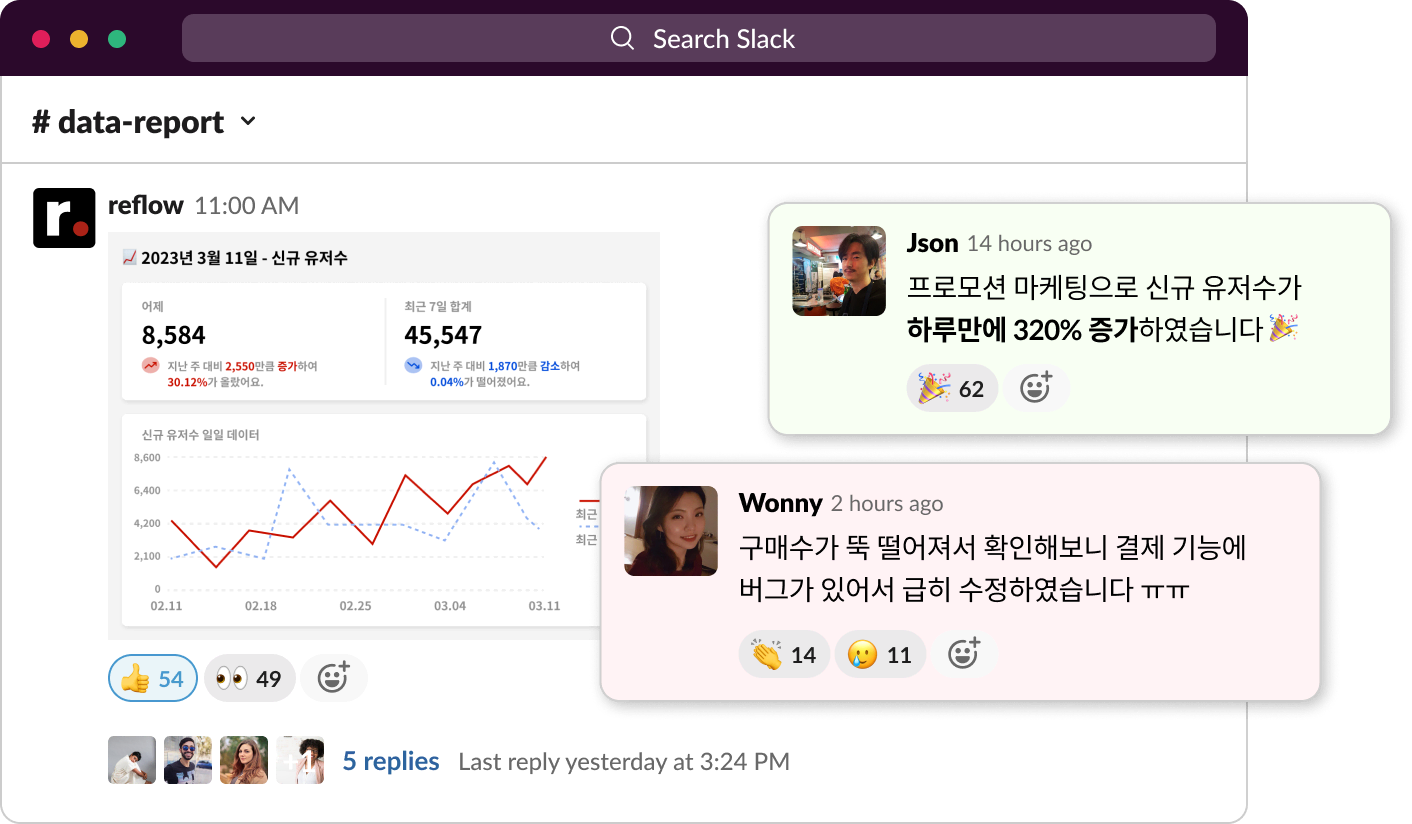
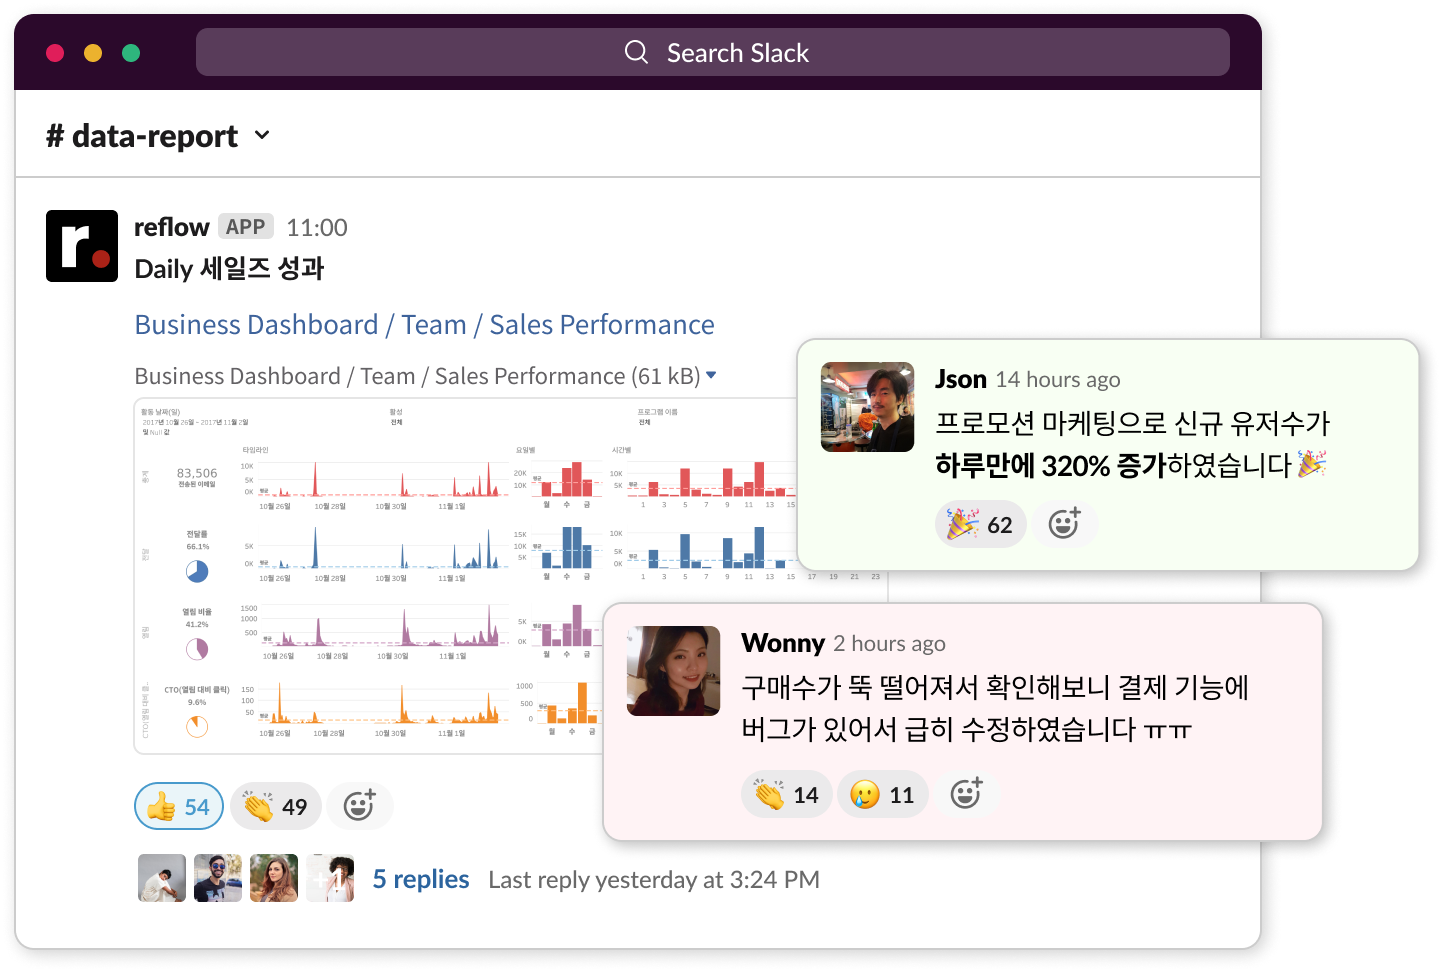
Change landing page to emphasis tableau

Changed region(s): [[0.0, 0.0, 0.9972, 1.0], [0.966, 0.2427, 0.9972, 0.3641]]

diff --git a/apps/carrier_web/assets/css/landing.css b/apps/carrier_web/assets/css/landing.css
@@ -4,7 +4,7 @@
   .mobile-menu-list {
     @apply max-h-0 transition-all duration-200;
   }
-  
+
   .hamburger-button:checked ~ .mobile-menu-list {
     @apply max-h-60;
   }
@@ -28,9 +28,9 @@
   .h1 {
     @apply font-extrabold text-4xl lg:text-5xl leading-tight lg:leading-snug;
   }
-  
+
   &.section {
-    @apply justify-between py-20 md:py-52;
+    @apply justify-between py-12 md:py-44;
 
     .section-description {
       @apply text-sm md:text-base mt-6 mb-12;
@@ -63,7 +63,7 @@
 
   .avatar-card-container {
     @apply flex flex-col items-center flex-1;
-  
+
     .avatar-card-text-description {
       @apply text-sm md:text-base !text-landingDescription;
     }
